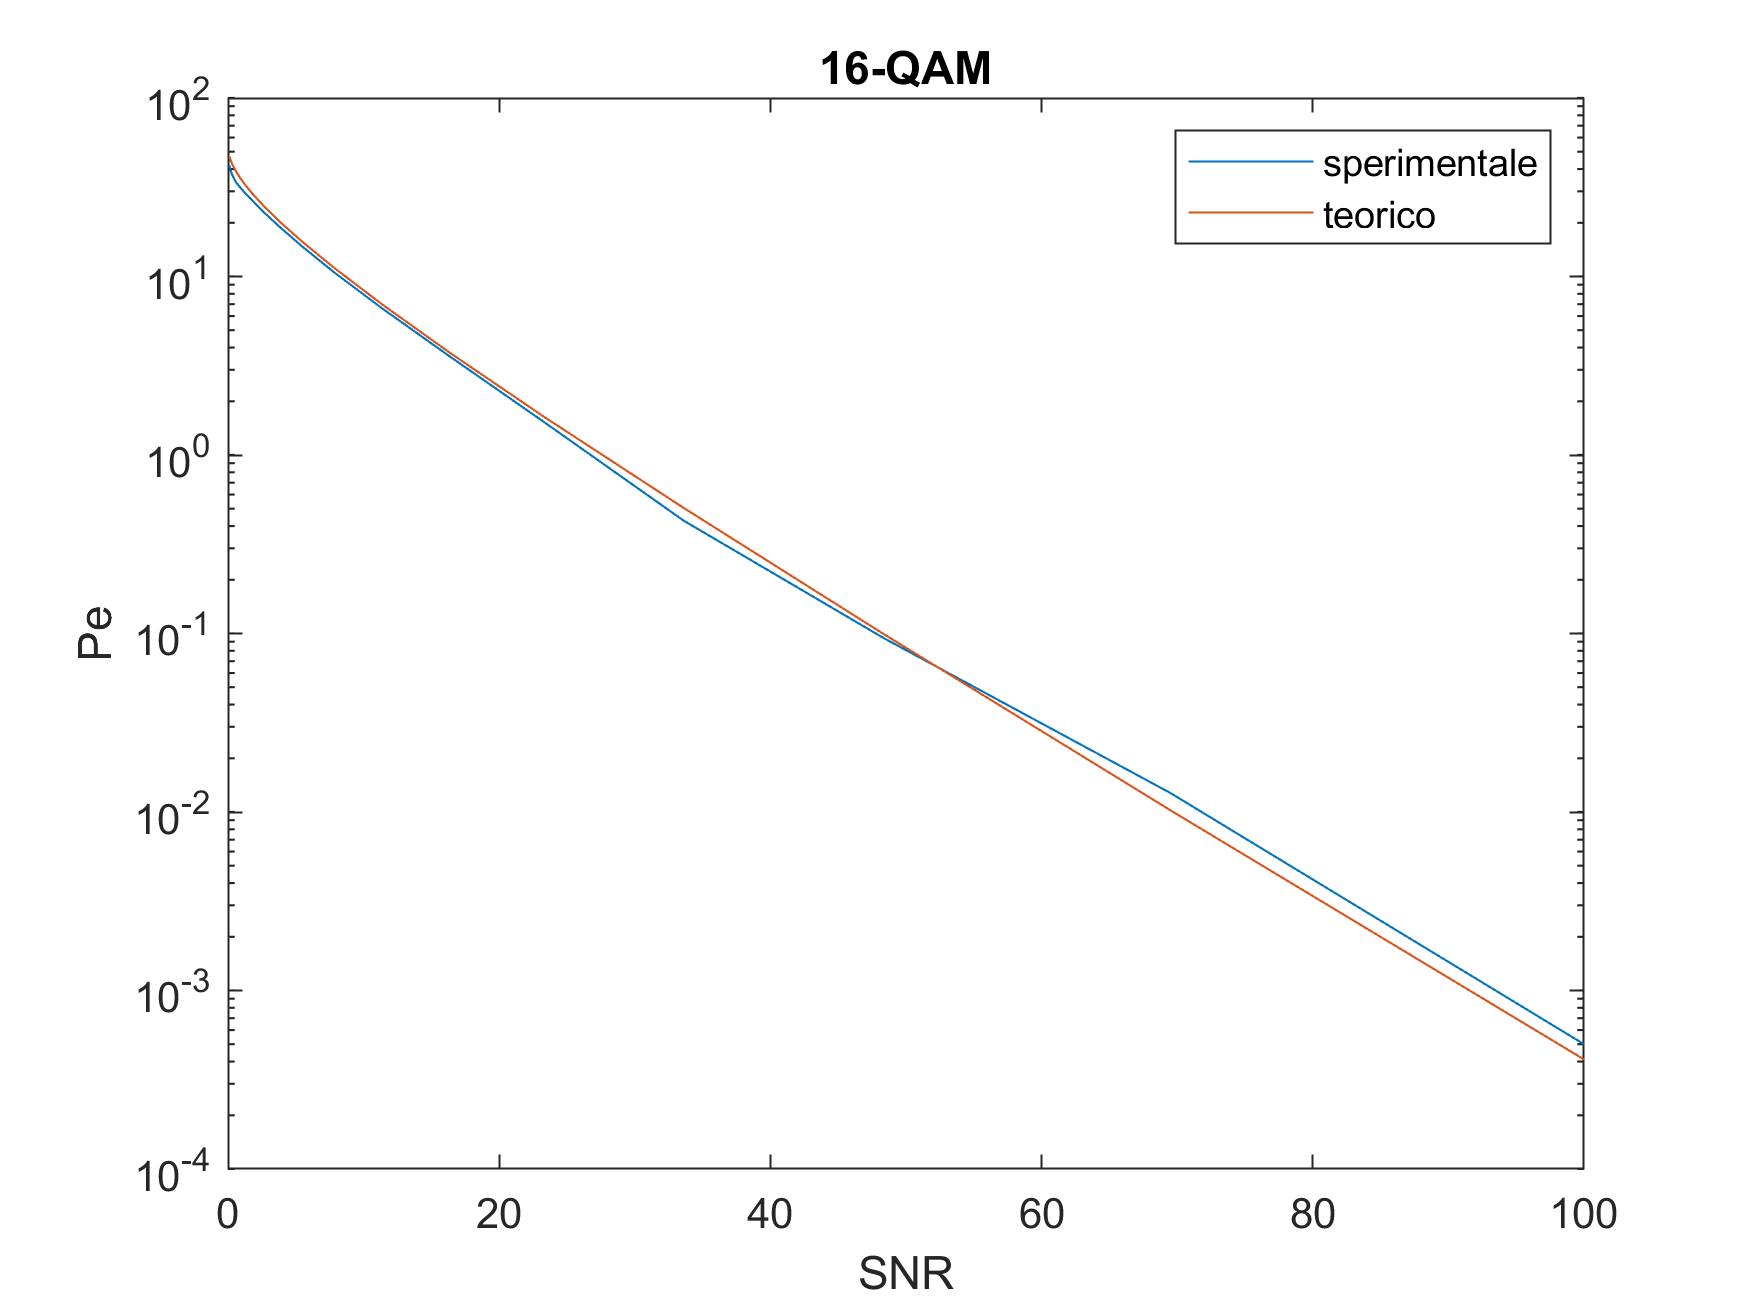
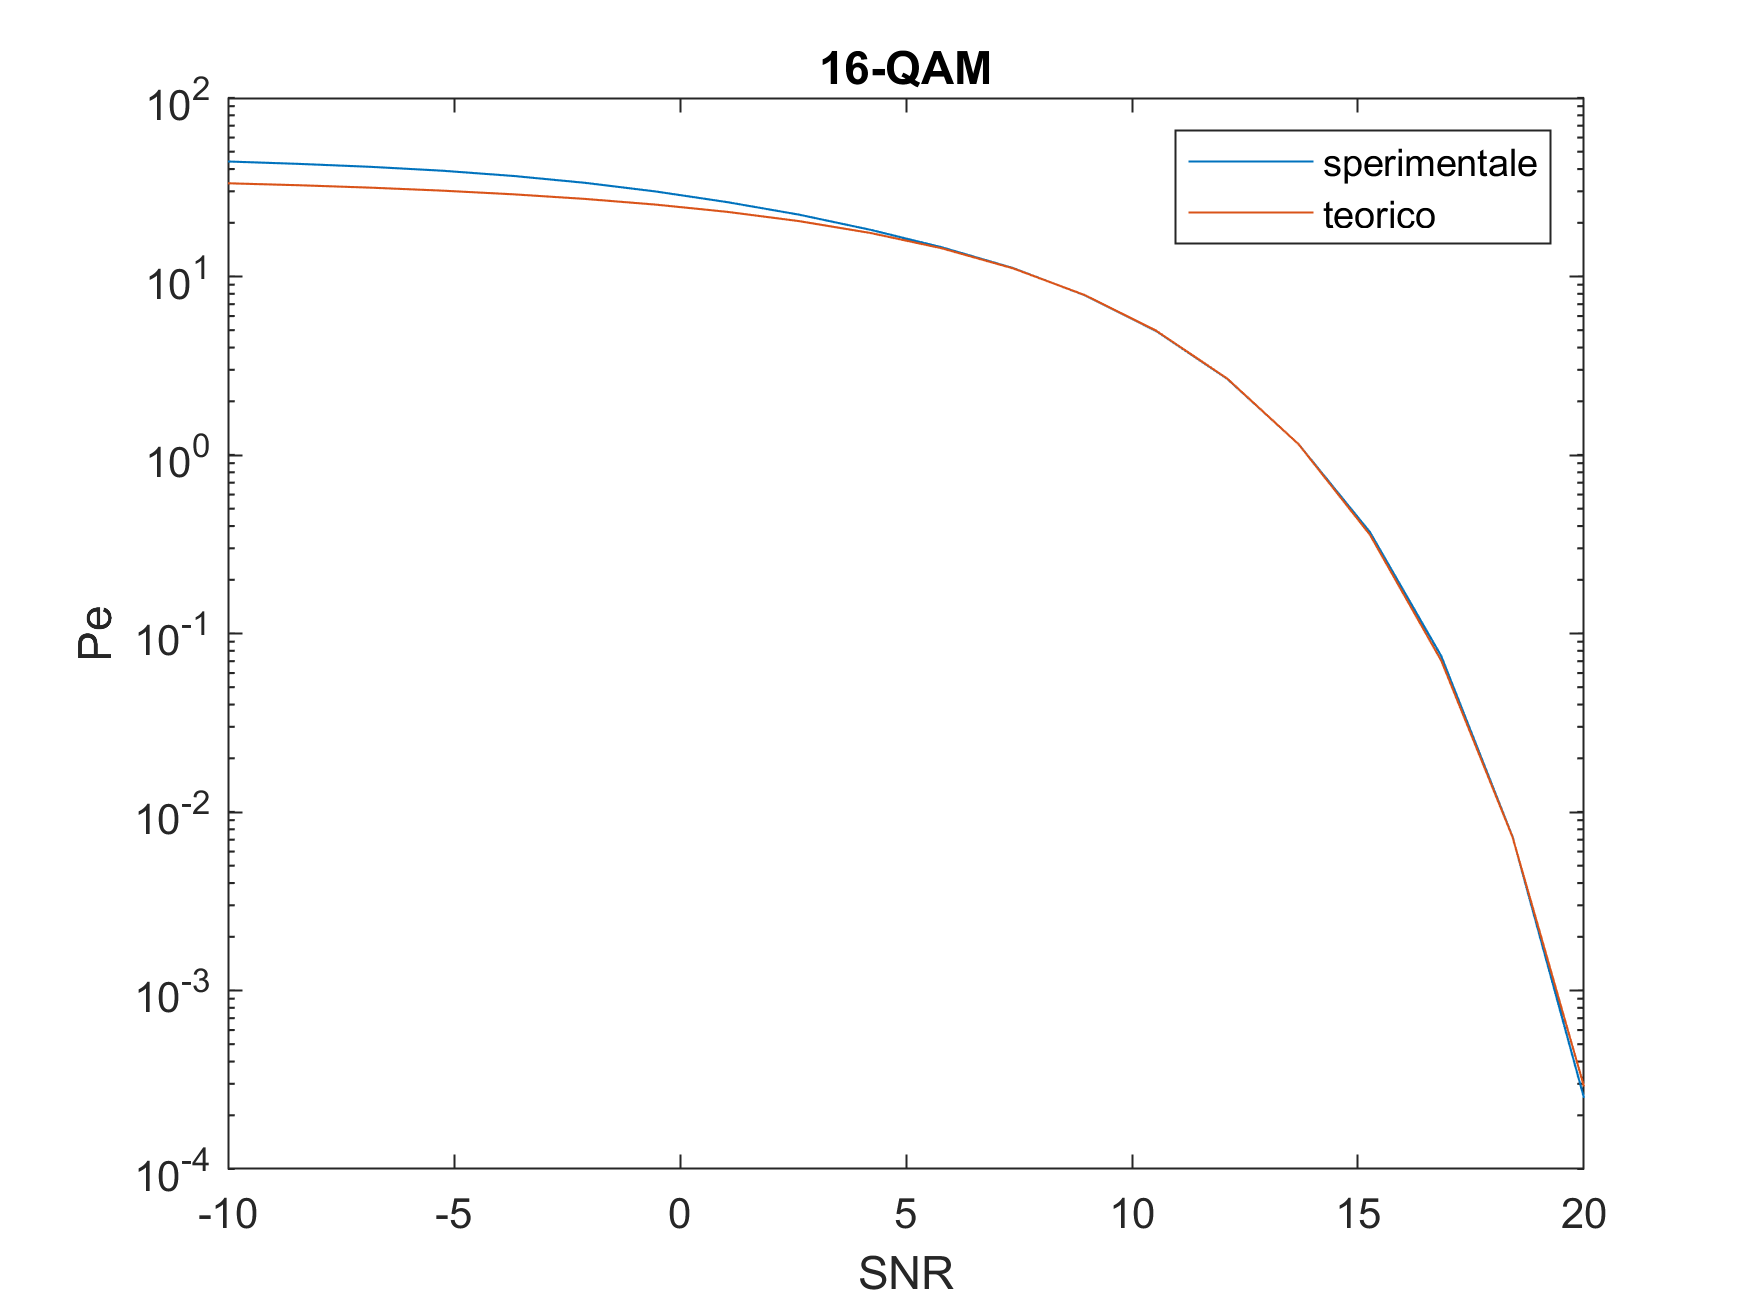
Consegna

diff --git a/QAM/main.c b/QAM/main.c
@@ -31,7 +31,19 @@ char *received;
 
 double *SNRARRAY;
 double *PeSp, *PeTh;
+
+char grey4LUT[3][8]={{0,1,0,0,0,0,0,0},{0,1,3,2,0,0,0,0},{0,1,3,2,6,4,5,7}};
+char greyMap4LUT[3][8]={{0,1,0,0,0,0,0,0},{0,1,3,2,0,0,0,0},{0,1,3,2,5,6,4,7}};
+
 /*
+000 -0
+001 -1
+011 -3
+010 -2
+110 -6
+100 -4
+101 -5
+111 -7
 convenzioni : vettore di bit v[i]: i=0 -LSB, i=n -MSB
 Segnali I Q: I - stringa LS, Q -stringa MS
 */
@@ -69,6 +81,7 @@ int string2int(char *in , int nBits){
 	return x;
 }
 //crea mappa livelli con codifica di Grey
+
 char *mapGenerator(int nLevs){
 	char *IQMAP = (char*)malloc(sizeof(char)*nLevs);
 	IQMAP[0] = -(nLevs-1);
@@ -81,8 +94,10 @@ char *mapGenerator(int nLevs){
 
 char *IQmapper(int x, char *map,int nLevs, int nbit){ //mappa x in cordinate cartesiane
 	char *IQ = (char*)malloc(sizeof(char)*2);
-    IQ[0] = map[ x & (nLevs-1)];     //I: è il mapping del valore dei 2 LSB
-    IQ[1] = map[ x>>nbit & (nLevs-1)];  //Q: è il mapping del valore dei 2 MSB
+
+    IQ[0] = map[ greyMap4LUT[nbit-1][ x & (nLevs-1)]];     //I: è il mapping del valore dei nbit LSB
+    IQ[1] = map[ greyMap4LUT[nbit-1][ x>>nbit & (nLevs-1)]];  //Q: è il mapping del valore dei nbit MSB
+
     return IQ;
 }
 //////////////////generatore rumore gaussiano Marsaglia-Bray
@@ -125,7 +140,7 @@ double *thrGen(int nThr){              //genera n-1 soglie per la decisione del 
 	}
 	return t;
 }
-char *demod(double *Yn, double *thresholds, char *Map,int h){   //decisore a soglie
+char *demod(double *Yn, double *thresholds, char *Map,int h){   //decisore livello a soglie
 	char *z = (char*)malloc(sizeof(char )*2);
 
 	for(int i = 0; i < 2; i++){
@@ -143,11 +158,13 @@ char *demod(double *Yn, double *thresholds, char *Map,int h){   //decisore a sog
 
 char *demapper(char *In, char *map,int mlev,int nbit){            //demappatore
 	char  *q = (char  *)malloc(sizeof(char)*nbit *2);
-	unsigned char val = 0;
+	unsigned char val = 0,k=0;
     for (int i = 0; i < 2; i++){    //Componenti IQ i=0LSB
         for(int j = 0; j < mlev; j++){ //livelli
             if(In[i] == map[j]){    //comparazione livelli alfabeto
-            	val += j<< i*(nbit);
+            k= grey4LUT[nbit-1][j];
+            //printf("\nj%d :%d  ,code:%d",i,j,k);
+            	val += k<< (i*nbit);
             }
         }
     }
@@ -172,19 +189,20 @@ double SNR=0.0;
 ////////////////////////////////////////////////////////////////////////////////////
 
 ////////////////////////////////////////////////////////////////////////////////////
-int debug =0;
+int debug =1;
 char go = 0;
 int nl=3;
 int firstl=0;
 int main(){
 	srand((unsigned) time(&t));
-
+///////////////////////////////////
+//      PARAMETRI SIMULAZIONE DEBUG
     if(debug == 1) {
-        N= 10;
-        nl=3;
-        nPoints =1;
-        firstl =nl-1;
-        minSNR = 100;
+        N= 10;          //# ITERAZIONI
+        nl=3;           //#BIT SOTTOSTRINGA
+        nPoints =1;   //NON TOCCARE
+        firstl =nl-1; //NON TOCCARE
+        minSNR = -10;   //SNR in TEST
     }
     else{
         printf("%d iterations, ok? y/n  :",N);
@@ -196,16 +214,7 @@ int main(){
             scanf("%d",&N);
         }
     }
-	//printf("Insert l :");
-	//scanf("%d",&l);
-/*
-    for(int i=0; i < L; i++){    //debug
-        printf("%d\n", greyMap[i]);
-    }
-    for(int i=0; i < L-1; i++){
-        printf("%f\n", thresholds[i]);
-    }
-*/
+
     //alloco vettore valori SNR
     SNRARRAY = SNRarrayGen(nPoints,minSNR, maxSNR);
 
@@ -224,6 +233,7 @@ int main(){
 		l = currentL+1;
 		n = 2*l;    //numero bit stringa
 	    L=1 ,M =1;	//resetto senno esplode
+
 	    for(int i=0; i<l; i++){
 	        L *=2;  //numero livelli ASK
 	    }
@@ -236,10 +246,17 @@ int main(){
 	    greyMap = mapGenerator(L);  //generazione mappa
 
 	    thresholds = thrGen(L);     //generazione soglie
-
+/*
+        for(int i=0; i < L; i++){    //debug
+            printf("%d\n", greyMap[i]);
+        }
+        for(int i=0; i < L-1; i++){
+            printf("%f\n", thresholds[i]);
+        }
+*/
     	for (int np = 0; np < nPoints; np++){	//varia SNR
 
-		    sigma = (double)sqrt( (M-1)/(3.0* pow(10.0,SNRARRAY[np]/10.0) ) );
+		    sigma = (double)sqrt( 2*(M-1)/(3.0* pow(10.0,SNRARRAY[np]/10.0) ))/sqrt(2);
 
 			printf("\nRun:%d/%d",np+1,nPoints );
 		    printf(" -Noise sigma:%.3lf",sigma);
@@ -248,7 +265,7 @@ int main(){
 
 		    for(int z=0; z<N; z++){     //iterazioni Monte Carlo
 
-		        // punto 1: genero un stringa random di 4 bit
+		        // punto 1: genero un stringa random di n bit
 		    	word = randGen(n);
 
 		        if(debug == 1){
@@ -256,9 +273,7 @@ int main(){
 		            for (int i = 0; i < n; i++){
 		                printf("%d",word[n-1-i]);
 		            }
-
 		        }
-
 		            // punto 2
 		        a= string2int(word,n);//converto in un valore
 		        if(debug == 1)printf("\nconv:%d",a);                       //debug
@@ -290,8 +305,6 @@ int main(){
 		            }
 		            printf("\n");
 		        }
-
-
 		        for (int i = 0; i < n; i++)
 		        {
 		        	if(word[i] != received[i]){
@@ -307,7 +320,7 @@ int main(){
 		        free(Z);
 		        free(received);
 		        PeSp[np + nPoints*currentL] = 100.0*(double)Errors / (N*n);
-		        PeTh[np + nPoints*currentL] = 100.0*sqrt(2)*(L-1)*erfc( sqrt(3*pow(10.0,SNRARRAY[np]/10.0)/ (2*(M-1)) ) )/(L*l);
+		        PeTh[np + nPoints*currentL] = 100.0*(L-1)*erfc( sqrt(3*pow(10.0,SNRARRAY[np]/10.0)/ (2*(M-1)) ) )/(L*l);
 
 
 		    }
@@ -327,7 +340,7 @@ int main(){
             fprintf(f, "sn = [");
             for (int i = 0; i < nPoints; i++){
 
-                fprintf(f, "%lf, ", pow(10.0,SNRARRAY[i]/10.0));
+                fprintf(f, "%lf, ",SNRARRAY[i]);
             }
             fprintf(f, "];");
 

diff --git a/QAM/QAM.m b/QAM/QAM.m
@@ -1,10 +1,10 @@
-sn = [0.100000, 0.143845, 0.206914, 0.297635, 0.428133, 0.615848, 0.885867, 1.274275, 1.832981, 2.636651, 3.792690, 5.455595, 7.847600, 11.288379, 16.237767, 23.357215, 33.598183, 48.329302, 69.519280, 100.000000, ];
-Ps0 = [37.584400, 35.139500, 32.397100, 29.308500, 25.664500, 21.605400, 17.283100, 12.956700, 8.763200, 5.178400, 2.567300, 0.979400, 0.247900, 0.040000, 0.003100, 0.000200, 0.000000, 0.000000, 0.000000, 0.000000, ];
-Pt0 = [53.162383, 49.814832, 45.905171, 41.391824, 36.267957, 30.589037, 24.508309, 18.311677, 12.429232, 7.383854, 3.639963, 1.379266, 0.359834, 0.055150, 0.003951, 0.000095, 0.000000, 0.000000, 0.000000, 0.000000, ];
-Ps1 = [42.021050, 40.560650, 39.091300, 37.347700, 35.493900, 33.605850, 31.541900, 29.119900, 26.423800, 23.005450, 19.123050, 14.789450, 10.486450, 6.672600, 3.595850, 1.533400, 0.481400, 0.096450, 0.009800, 0.000250, ];
-Pt1 = [47.068762, 45.890179, 44.484134, 42.810634, 40.825467, 38.481910, 35.734370, 32.545142, 28.895859, 24.805207, 20.353349, 15.709619, 11.151608, 7.050922, 3.793459, 1.626424, 0.505707, 0.099556, 0.010204, 0.000411, ];
-Ps2 = [43.984400, 42.956200, 41.881833, 40.733133, 39.471467, 38.138267, 36.845933, 35.354867, 33.716467, 31.757067, 29.628800, 27.131933, 24.269100, 21.017333, 17.312667, 13.379400, 9.422867, 5.887633, 3.156967, 1.322733, ];
-Pt2 = [38.978618, 38.527175, 37.986419, 37.339042, 36.564638, 35.639347, 34.535592, 33.222076, 31.664268, 29.825786, 27.671334, 25.172118, 22.314984, 19.116471, 15.642052, 12.027628, 8.493580, 5.331614, 2.839545, 1.200162, ];
+sn = [-10.000000, -8.421053, -6.842105, -5.263158, -3.684211, -2.105263, -0.526316, 1.052632, 2.631579, 4.210526, 5.789474, 7.368421, 8.947368, 10.526316, 12.105263, 13.684211, 15.263158, 16.842105, 18.421053, 20.000000, ];
+Ps0 = [37.597500, 35.214250, 32.501417, 29.310583, 25.638833, 21.588333, 17.349000, 12.949083, 8.823333, 5.190667, 2.551083, 0.974333, 0.256500, 0.035333, 0.002917, 0.000167, 0.000000, 0.000000, 0.000000, 0.000000, ];
+Pt0 = [37.591482, 35.224405, 32.459858, 29.268439, 25.645318, 21.629716, 17.329992, 12.948311, 8.788794, 5.221173, 2.573843, 0.975288, 0.254441, 0.038997, 0.002793, 0.000067, 0.000000, 0.000000, 0.000000, 0.000000, ];
+Ps1 = [44.099750, 42.760583, 41.156583, 39.092500, 36.583125, 33.540708, 30.024000, 26.120167, 22.114292, 18.263875, 14.626500, 11.178042, 7.886833, 4.982875, 2.690917, 1.142583, 0.350958, 0.069792, 0.006083, 0.000333, ];
+Pt1 = [33.282641, 32.449256, 31.455033, 30.271690, 28.867964, 27.210820, 25.268016, 23.012891, 20.432458, 17.539930, 14.391991, 11.108378, 7.885378, 4.985755, 2.682381, 1.150056, 0.357589, 0.070396, 0.007215, 0.000290, ];
+Ps2 = [44.829083, 43.958194, 42.936222, 41.862556, 40.683611, 39.138528, 37.296417, 34.901861, 31.922806, 28.424778, 24.733083, 20.990778, 17.472444, 14.203111, 11.303417, 8.530250, 5.990972, 3.762611, 2.001222, 0.854944, ];
+Pt2 = [27.562045, 27.242826, 26.860455, 26.402690, 25.855104, 25.200824, 24.420351, 23.491555, 22.390019, 21.090015, 19.566588, 17.799376, 15.779077, 13.517386, 11.060601, 8.504817, 6.005868, 3.770020, 2.007862, 0.848643, ];
 figure;
  semilogy(sn, Ps0);
 hold on;
